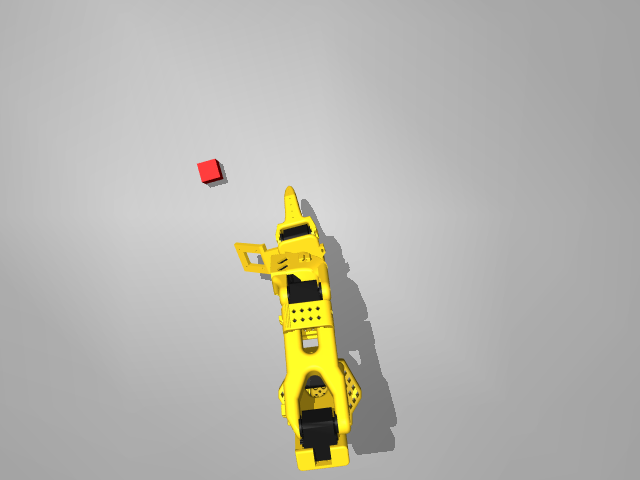
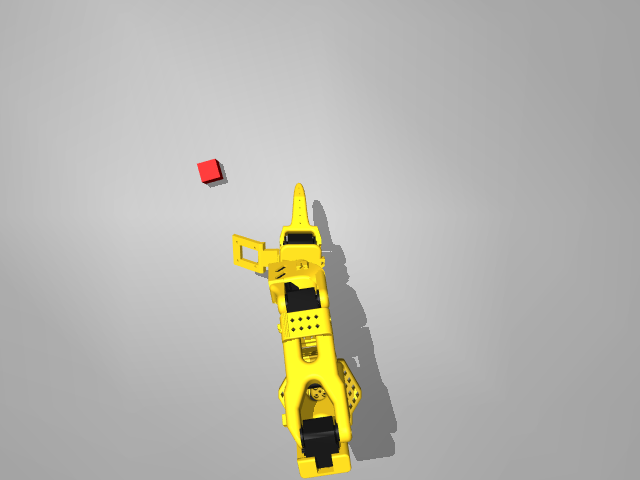
updates notes and added windows fix

diff --git a/mujuco/smoke_test.py b/mujuco/smoke_test.py
@@ -24,8 +24,26 @@ WARP_ENV_IDS = [
 ]
 
 N_STEPS = 20
-NUM_WARP_ENVS = 8 # my laptop is RTX 5070, 8GB
+NUM_WARP_ENVS = 8 # my laptop is RTX 5070, 8GB, if ur running this on ur local machine change it to ur specs 
 PROOF_DIR = Path(__file__).parent / "proof"
+
+# THIS IS FOR WINDOWS ONLY, dw abt this if ur on mac or linux 
+# so101-nexus 0.4.6 crashes and MuJoCo can't re-open the temp XML and base_env.py never imports mujoco.viewer, this is just a bandaid fix for it on windows
+def apply_windows_patch() -> None:
+    if sys.platform != "win32":
+        return
+    site = Path(sys.prefix) / "Lib" / "site-packages" / "so101_nexus"
+    for path in list(site.glob("mujoco/*.py")) + list(site.glob("warp/*.py")):
+        src = path.read_text(encoding="utf-8")
+        fixed = src.replace(
+            'delete=True) as f:\n            f.write(xml_string)\n            f.flush()',
+            'delete=True, delete_on_close=False) as f:\n            f.write(xml_string)\n            f.close()',
+        )
+        if path.name == "base_env.py" and path.parent.name == "mujoco" and "import mujoco.viewer" not in fixed:
+            fixed = fixed.replace("import mujoco\n", "import mujoco\nimport mujoco.viewer\n", 1)
+        if fixed != src:
+            path.write_text(fixed, encoding="utf-8")
+            print(f"patched for Windows: {path.parent.name}/{path.name}")
 
 def describe(obs) -> str:
     """One-line description of an observation (dict / numpy array / torch tensor)."""
@@ -112,6 +130,7 @@ def run_warp_env(env_id: str) -> bool:
             envs.close()
 
 def main() -> int:
+    apply_windows_patch()  # must run before any so101_nexus import
     argv = sys.argv[1:]
     only_cpu = "--cpu" in argv
     only_warp = "--warp" in argv

diff --git a/mujuco/sim.py b/mujuco/sim.py
@@ -1,7 +1,5 @@
 '''
-
 Verify installaion
-
 '''
 
 # import so101_nexus.mujoco
@@ -11,15 +9,11 @@ Verify installaion
 # print("Installation OK")
 # env.close()
 
-
 '''
-
-
 
 '''
 
 import time
-
 import gymnasium as gym
 import so101_nexus.mujoco
 import mujoco.viewer

diff --git a/mujuco/setup.md b/mujuco/setup.md
@@ -2,7 +2,7 @@
 
 ## 1. Create a virtual environment
 
-```powershell
+```
 cd <your-work-dir>
 python -m venv .venv
 Set-ExecutionPolicy -Scope Process -ExecutionPolicy RemoteSigned
@@ -16,133 +16,33 @@ added in 3.12).
 
 CPU-only machine:
 
-```powershell
+```
 pip install so101-nexus imageio
 ```
 
 Machine with an NVIDIA GPU (adds the Warp backend):
 
-```powershell
+```
 pip install "so101-nexus[warp]" imageio
 ```
 
-## 3. Patch the installed package for Windows (required)
-
-so101-nexus 0.4.6 has two bugs that only bite on Windows. Without this step,
-**every** environment crashes at construction with
-`ValueError: ParseXML: empty file '...\tmpXXXX.xml'`, and `render_mode="human"`
-crashes with `AttributeError: module 'mujoco' has no attribute 'viewer'`.
-Both fixes are hand edits inside `.venv\Lib\site-packages\so101_nexus\`.
-
-**Fix 1 — temp-file crash.** The envs write their scene XML to a
-`NamedTemporaryFile` and have MuJoCo re-open it by name while Python still
-holds it open — fine on Linux/macOS, not allowed on Windows, so MuJoCo reads
-zero bytes. In all 7 files that contain the pattern —
-`mujoco\look_at_env.py`, `mujoco\move_env.py`, `mujoco\pick_and_place.py`,
-`mujoco\pick_env.py`, `warp\look_at_env.py`, `warp\move_env.py`,
-`warp\pick_env.py` — change:
-
-```python
-# before
-with tempfile.NamedTemporaryFile(mode="w", suffix=".xml", dir=_SO101_DIR, delete=True) as f:
-    f.write(xml_string)
-    f.flush()
-# after (delete_on_close needs Python 3.12+)
-with tempfile.NamedTemporaryFile(mode="w", suffix=".xml", dir=_SO101_DIR, delete=True, delete_on_close=False) as f:
-    f.write(xml_string)
-    f.close()
-```
-
-The `mujoco.MjModel.from_xml_path(f.name)` line that follows stays as-is.
-If an unpatched run already crashed, also delete any leftover `tmp*.xml` in
-`so101_nexus\assets\SO101_menagerie\`.
-
-**Fix 2 — viewer import.** `mujoco.viewer` is a submodule that `import mujoco`
-alone doesn't load, and `mujoco\base_env.py` never imports it. Add under
-`import mujoco` at the top of `base_env.py`:
-
-```python
-import mujoco.viewer
-```
-
-(Alternatively, put that import in your own script — it only matters for
-`render_mode="human"`.)
-
-**Re-apply both fixes after any `pip install`/`--upgrade` of so101-nexus**
-(reinstalling overwrites the patched files).
-
-## 4. GPU only: install CUDA-enabled PyTorch
+## 3. GPU only: install CUDA-enabled PyTorch
 
 The Warp environments return observations as torch tensors on the GPU, but the
 default PyPI `torch` wheel on Windows is CPU-only. Replace it:
 
-```powershell
+```
 pip install torch --index-url https://download.pytorch.org/whl/cu130 --upgrade
 ```
 
 (~2 GB download. RTX 50-series cards need cu128 or newer; cu130 covers
 everything current. Verify with
-`python -c "import torch; print(torch.cuda.is_available())"` — must print `True`.)
+`python -c "import torch; print(torch.cuda.is_available())"`, which must print `True`.)
 
-## 5. Run the smoke test
+## 4. Run the smoke test
 
-```powershell
+```
 python smoke_test.py          # all 10 envs (5 CPU + 5 Warp)
 python smoke_test.py --cpu    # CPU/MuJoCo envs only
 python smoke_test.py --warp   # Warp GPU envs only
 ```
-
-Each CPU env is created, reset, stepped 20x with random actions, and one
-rendered frame is saved to `proof/<EnvId>.png`. Each Warp env runs 8 batched
-worlds on CUDA for 20 steps. The script prints action/observation spaces,
-rewards, and a PASS/FAIL summary; exit code 0 means everything passed.
-
-The first Warp run spends ~2 minutes JIT-compiling CUDA kernels; they're
-cached (`%LOCALAPPDATA%\NVIDIA\warp\Cache`), so later runs start fast.
-`num_envs=8` is deliberately small — fine even on an 8 GB laptop GPU; watch
-`nvidia-smi` memory before scaling it up.
-
-## 6. Watching it live (interactive viewer)
-
-`render_mode="human"` opens the MuJoCo viewer, but only when you call
-`env.render()` — `step()` alone never opens a window (`sim.py` in this folder
-is a ready-to-run version of this):
-
-```python
-import time
-
-import gymnasium as gym
-import so101_nexus.mujoco  # registers the MuJoCo*-v1 env IDs
-
-env = gym.make("MuJoCoPickLift-v1", render_mode="human")
-obs, info = env.reset()
-for _ in range(1000):
-    obs, reward, terminated, truncated, info = env.step(env.action_space.sample())
-    env.render()        # opens the viewer on first call, then syncs it
-    time.sleep(1 / 50)  # real time (render_fps = 50)
-    if terminated or truncated:
-        obs, info = env.reset()
-env.close()
-```
-
-## Environment IDs
-
-Registered on `import so101_nexus.mujoco` / `import so101_nexus.warp`
-(docs: https://so101-nexus.com/docs/getting-started/environment-ids):
-
-| CPU (gym.make) | GPU (gym.make_vec) | Task |
-|---|---|---|
-| MuJoCoTouch-v1 | WarpTouch-v1 | Touch an object on the table |
-| MuJoCoLookAt-v1 | WarpLookAt-v1 | Orient the end-effector toward a target |
-| MuJoCoMove-v1 | WarpMove-v1 | Move the TCP in a cardinal direction |
-| MuJoCoPickLift-v1 | WarpPickLift-v1 | Pick up and lift an object |
-| MuJoCoPickAndPlace-v1 | WarpPickAndPlace-v1 | Pick and place at a target |
-
-Warp envs are vector envs: `gym.make_vec("WarpTouch-v1", num_envs=8, device="cuda")`.
-
-## Known non-fatal warnings
-
-- `Failed to extract texture for YCB '...'` — the object renders gray instead
-  of textured. Harmless.
-- First use of a YCB object (e.g. pick tasks) downloads mesh assets to
-  `~\.cache\so101_nexus\ycb\` — one-time, needs network.